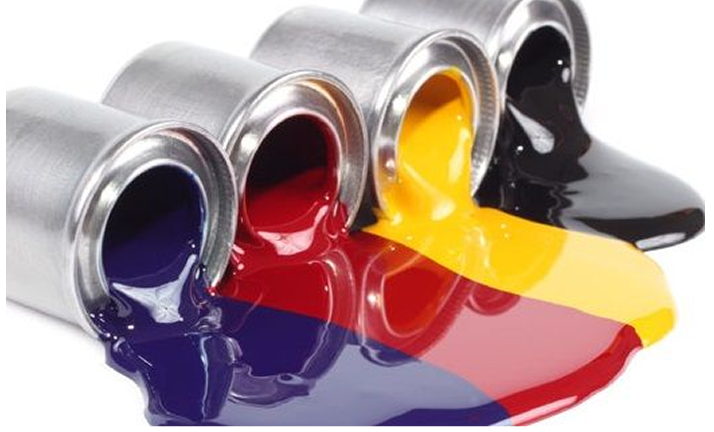
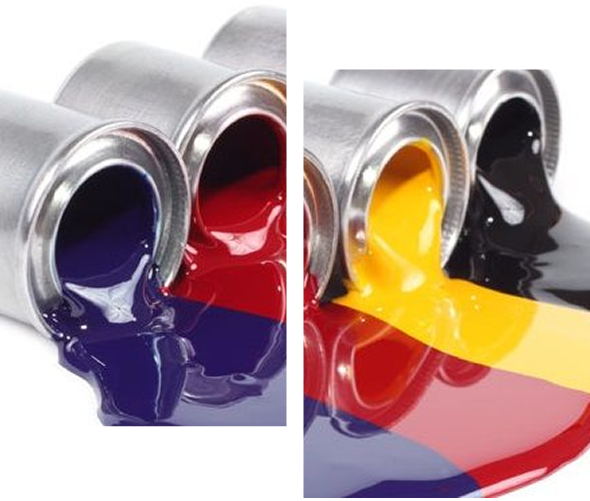
update img

diff --git a/src/components/sections/AboutUsSection/VisionMissionSection.jsx b/src/components/sections/AboutUsSection/VisionMissionSection.jsx
@@ -1,7 +1,7 @@
 "use client";
 import { motion } from "framer-motion";
 import Image from "next/image";
-import { img4, img1, img2 } from "@/assets";
+import { vision, mission } from "@/assets";
 
 const VisionMissionSection = () => {
   return (
@@ -33,34 +33,27 @@ const VisionMissionSection = () => {
           className="grid md:grid-cols-2 gap-12 items-center mb-16"
         >
           <div className="space-y-4">
-            <h3 className="text-2xl font-bold text-foreground">
-              Our Vision
-            </h3>
+            <h3 className="text-2xl font-bold text-foreground">Our Vision</h3>
             <p className="text-muted text-base leading-relaxed">
-              To provide exceptional garment and textile mending services that meet the highest quality standards, fostering long-term partnerships with our clients and contributing to their success.
+              To provide exceptional garment and textile mending services that
+              meet the highest quality standards, fostering long-term
+              partnerships with our clients and contributing to their success.
             </p>
           </div>
+
           <motion.div
             initial={{ opacity: 0, x: 50 }}
             whileInView={{ opacity: 1, x: 0 }}
             transition={{ duration: 0.6, delay: 0.4 }}
             viewport={{ once: false }}
-            className="flex gap-4 justify-end"
+            className="flex justify-end"
           >
-            <div className="relative w-[240px] h-[200px] rounded-lg overflow-hidden shadow-md">
+            <div className="relative w-full max-w-[400px] aspect-[4/3] overflow-hidden mx-auto">
               <Image
-                src={img4}
-                alt="Vision 1"
+                src={vision}
+                alt="Our Vision"
                 fill
-                className="object-cover"
-              />
-            </div>
-            <div className="relative w-[240px] h-[200px] rounded-lg overflow-hidden shadow-md">
-              <Image
-                src={img1}
-                alt="Vision 2"
-                fill
-                className="object-cover"
+                className="object-cover transition-transform duration-300 hover:scale-105"
               />
             </div>
           </motion.div>
@@ -72,28 +65,31 @@ const VisionMissionSection = () => {
           whileInView={{ opacity: 1, y: 0 }}
           transition={{ duration: 0.6, delay: 0.2 }}
           viewport={{ once: false }}
-          className="grid md:grid-cols-2 gap-8 items-start"
+          className="grid md:grid-cols-2 gap-12 items-center"
         >
           <motion.div
             initial={{ opacity: 0, x: -50 }}
             whileInView={{ opacity: 1, x: 0 }}
             transition={{ duration: 0.6, delay: 0.4 }}
             viewport={{ once: false }}
-            className="relative h-[200px] rounded-md overflow-hidden order-2 md:order-1"
+            className="flex justify-start order-2 md:order-1"
           >
-            <Image
-              src={img2}
-              alt="Our Mission"
-              fill
-              className="object-cover"
-            />
+            <div className="relative w-full max-w-[400px] aspect-[4/3] overflow-hidden mx-auto">
+              <Image
+                src={mission}
+                alt="Our Mission"
+                fill
+                className="object-cover transition-transform duration-300 hover:scale-105"
+              />
+            </div>
           </motion.div>
+
           <div className="space-y-4 order-1 md:order-2">
-            <h3 className="text-2xl font-bold text-foreground">
-              Our Mission
-            </h3>
+            <h3 className="text-2xl font-bold text-foreground">Our Mission</h3>
             <p className="text-muted text-base leading-relaxed">
-              To be the leading provider of innovative and high-quality garment and textile mending solutions in Sri Lanka and beyond, setting industry standards through expertise, technology, and trust.
+              To be the leading provider of innovative and high-quality garment
+              and textile mending solutions in Sri Lanka and beyond, setting
+              industry standards through expertise, technology, and trust.
             </p>
           </div>
         </motion.div>
